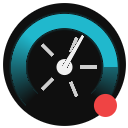
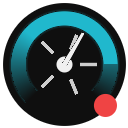
Center speedometer vertically within background circle

diff --git a/scripts/generate-icons.js b/scripts/generate-icons.js
@@ -76,7 +76,7 @@ function drawBackground(x, y, s) {
 
 function drawGauge(x, y, s) {
   const cx = s * 0.5;
-  const cy = s * 0.52;
+  const cy = s * 0.5;
   const outerR = s * 0.42;
   const innerR = s * 0.30;
   const lineW = Math.max(1, s / 20);
